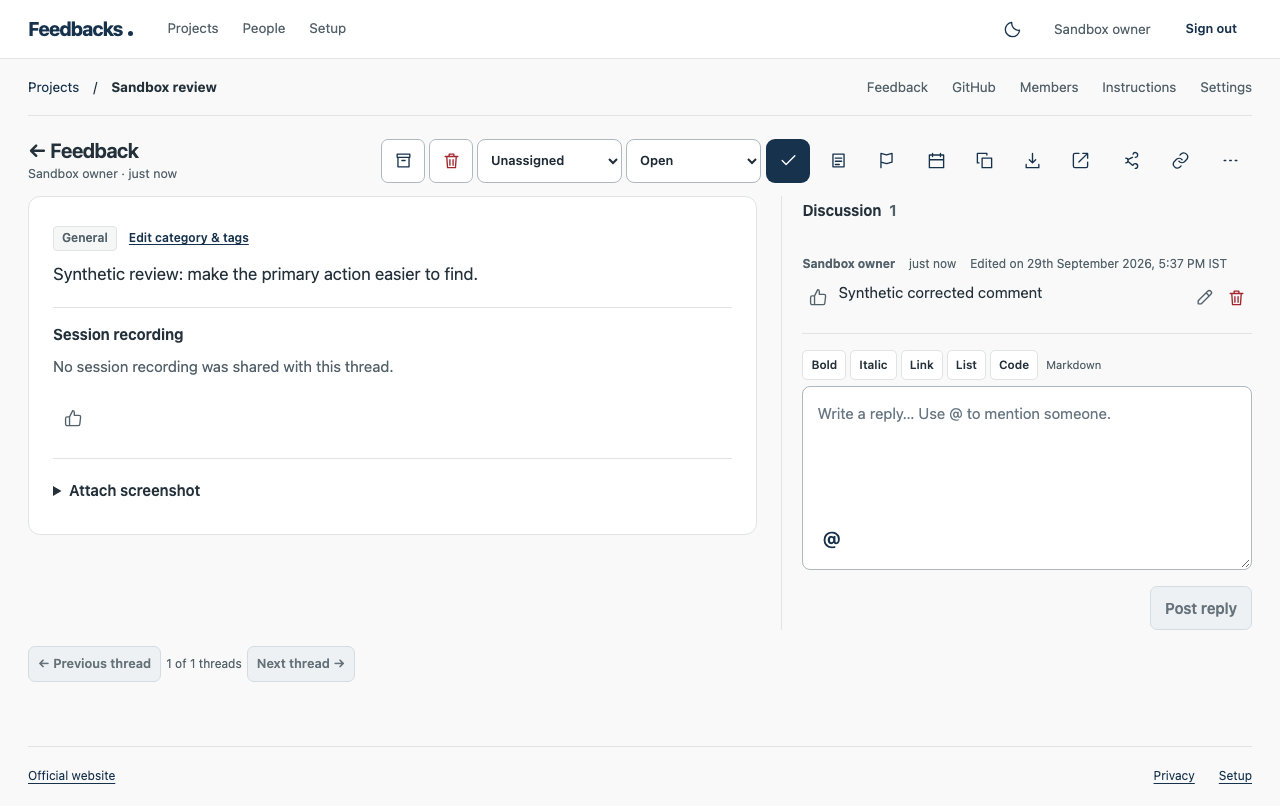
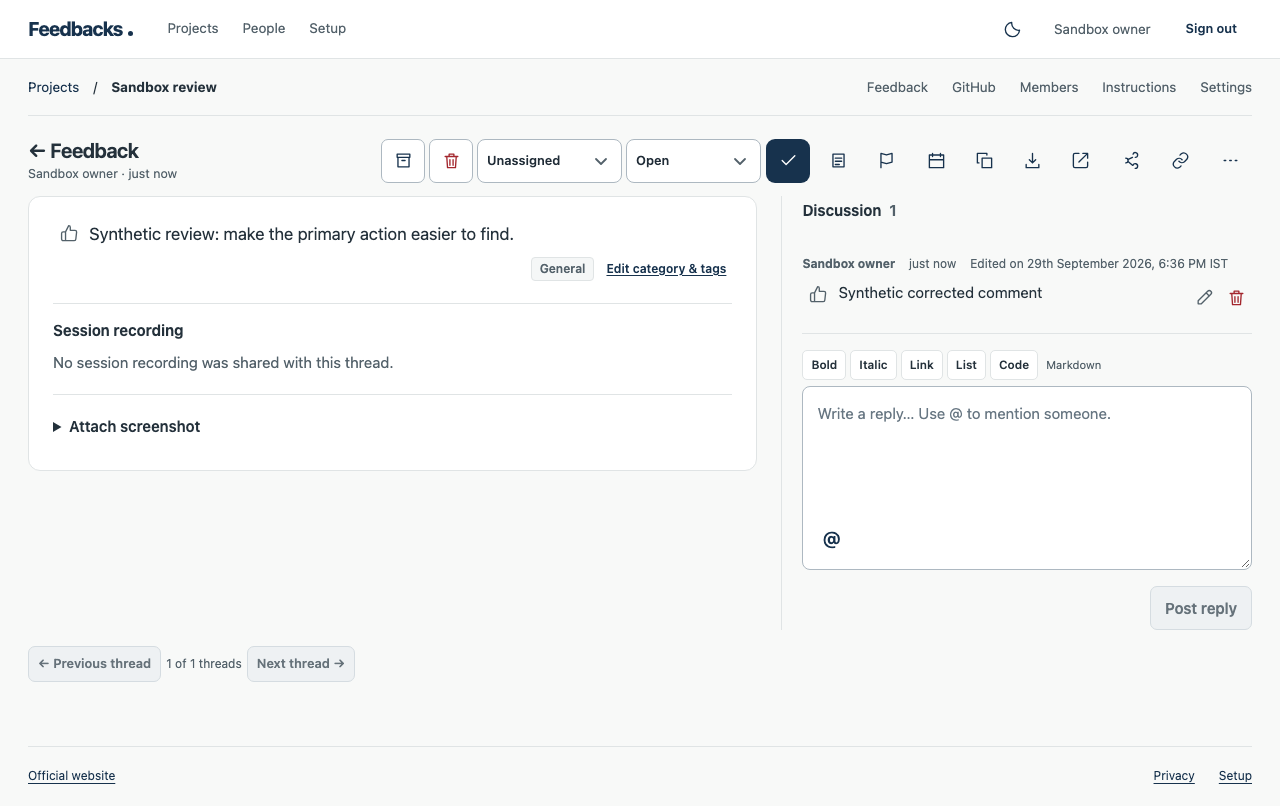
Align original feedback actions with discussion

diff --git a/src/web/threads/detail.tsx b/src/web/threads/detail.tsx
@@ -478,24 +478,42 @@ export function ThreadDetail({
         <div className={`detail-grid ${panel === "details" ? "showing-details" : ""}`}>
           <div className="evidence-pane">
             <article className="first-comment">
-              <div className="thread-taxonomy">
-                <span className="category-badge">
-                  {categoryName(taxonomy?.categories ?? builtInCategories, t.category)}
-                </span>
-                {(t.tags ?? []).map((tag) => (
-                  <TagBadge key={tag} name={tag} tags={taxonomy?.tags ?? []} />
-                ))}
-                {project?.permissions.canWrite && (
-                  <button
-                    type="button"
-                    className="thread-taxonomy-edit"
-                    onClick={() => openDetail("thread-organize")}
-                  >
-                    Edit category &amp; tags
-                  </button>
-                )}
+              <div className="feedback-content-row">
+                <DiscussionLike
+                  key={t.id}
+                  threadId={t.id}
+                  target="original feedback"
+                  likes={t.likes}
+                  canWrite={!!project?.permissions.canWrite}
+                  onSaved={(likes) =>
+                    setThread((current) => current && { ...current, likes })
+                  }
+                />
+                <div className="feedback-body">
+                  <MarkdownText body={t.body} className="message" />
+                  <div className="thread-taxonomy">
+                    {t.archived && <span className="feedback-archived">Archived</span>}
+                    <span className="category-badge">
+                      {categoryName(
+                        taxonomy?.categories ?? builtInCategories,
+                        t.category,
+                      )}
+                    </span>
+                    {(t.tags ?? []).map((tag) => (
+                      <TagBadge key={tag} name={tag} tags={taxonomy?.tags ?? []} />
+                    ))}
+                    {project?.permissions.canWrite && (
+                      <button
+                        type="button"
+                        className="thread-taxonomy-edit"
+                        onClick={() => openDetail("thread-organize")}
+                      >
+                        Edit category &amp; tags
+                      </button>
+                    )}
+                  </div>
+                </div>
               </div>
-              <MarkdownText body={t.body} className="message" />
             </article>
             <ThreadRecordings
               key={t.id}
@@ -539,19 +557,6 @@ export function ThreadDetail({
                 onClose={() => setMarkupTarget(null)}
               />
             )}
-            <div className="feedback-reactions">
-              <DiscussionLike
-                key={t.id}
-                threadId={t.id}
-                target="original feedback"
-                likes={t.likes}
-                canWrite={!!project?.permissions.canWrite}
-                onSaved={(likes) =>
-                  setThread((current) => current && { ...current, likes })
-                }
-              />
-              {t.archived && <span>Archived</span>}
-            </div>
             {t.assets?.filter((asset) => asset.contentType !== "video/webm").length >
               0 && (
               <ScreenshotComparison

diff --git a/src/web/threads/detail/core.css b/src/web/threads/detail/core.css
@@ -26,19 +26,26 @@
   border: 0;
   padding: 0;
 }
-.first-comment > .message {
-  margin: 0 0 12px;
+.feedback-content-row {
+  display: flex;
+  align-items: flex-start;
+  gap: 4px;
+}
+.feedback-body {
+  flex: 1;
+  min-width: 0;
+}
+.feedback-body > .message {
+  margin: 0;
   font-size: 1.13rem;
 }
-.feedback-reactions {
-  display: flex;
-  align-items: center;
-  gap: 10px;
-  margin-top: 10px;
+.feedback-body > .thread-taxonomy {
+  justify-content: flex-end;
+  margin: 8px 0 0;
 }
-.feedback-reactions > span {
+.feedback-archived {
   color: var(--muted);
-  font-size: 0.85rem;
+  font-size: 0.78rem;
 }
 .attachments {
   margin: 14px 0 0;
@@ -138,12 +145,17 @@
   background: transparent;
   color: var(--muted);
 }
+.feedback-content-row .discussion-like button,
 .reply-content-row .discussion-like button,
 .reply-controls > .reply-icon-button {
   min-width: 32px;
   height: 32px;
   min-height: 32px;
   padding: 0 4px;
+}
+.feedback-content-row .discussion-like svg,
+.reply-content-row .discussion-like svg {
+  transform: translateY(-3px);
 }
 .discussion-like button:enabled:hover,
 .reply-controls > .reply-icon-button:enabled:hover {

diff --git a/src/web/styles/threads/layout.css b/src/web/styles/threads/layout.css
@@ -10,10 +10,6 @@
   border-top: 1px solid var(--border);
   padding-top: 22px;
 }
-.first-comment > .message {
-  font-size: 1.12rem;
-  margin-top: 14px;
-}
 .message {
   white-space: pre-wrap;
   overflow-wrap: anywhere;

diff --git a/src/web/threads/detail/evidence.css b/src/web/threads/detail/evidence.css
@@ -52,9 +52,6 @@
   .thread-content .first-comment {
     order: 2;
   }
-  .thread-content .feedback-reactions {
-    order: 3;
-  }
   .thread-content .evidence-pane > details {
     order: 4;
   }

diff --git a/docs/review-workflow.md b/docs/review-workflow.md
@@ -16,7 +16,7 @@ The status selector at the top of a thread saves as soon as you choose a state. 
 
 The status stays above the feedback. On a narrow screen the screenshot appears before discussion and queue navigation. On desktop, discussion sits beside the evidence. The top icon actions open optional notes, review decisions, guest links, linked issues and details. A GitHub Issue action appears only after a maintainer connects this project to a repository; setup stays in project settings. On narrow screens menus open at the bottom of the viewport. Each icon has an accessible name and a label on hover or keyboard focus.
 
-Your earlier discussion replies show a Like icon to the left of the text and small Edit and Delete icons to its right. Their names appear on hover and to screen readers. Edit opens an inline composer with Save edit and Cancel; after saving, the original posting time remains and **Edited on** shows the edit time. Delete asks for confirmation, then removes that reply and its likes. These controls appear only for your own signed-in comments; the original feedback and guest or agent replies have no comment-management controls.
+The original feedback and each discussion reply place Like beside the text. Category and tags sit below the original feedback as secondary details. Your earlier replies also show small Edit and Delete icons to the right. Their names appear on hover and to screen readers. Edit opens an inline composer with Save edit and Cancel; after saving, the original posting time remains and **Edited on** shows the edit time. Delete asks for confirmation, then removes that reply and its likes. These controls appear only for your own signed-in comments; the original feedback and guest or agent replies have no comment-management controls.
 
 New projects start with the feedback queue, discussion and status. Document review and surveys/polls are off until a maintainer enables their tabs under **Project settings → Project → Optional tools**. Turning a tab off hides its project UI without deleting its saved documents or surveys. GitHub Issue creation likewise stays out of the thread until a repository is connected.
 
